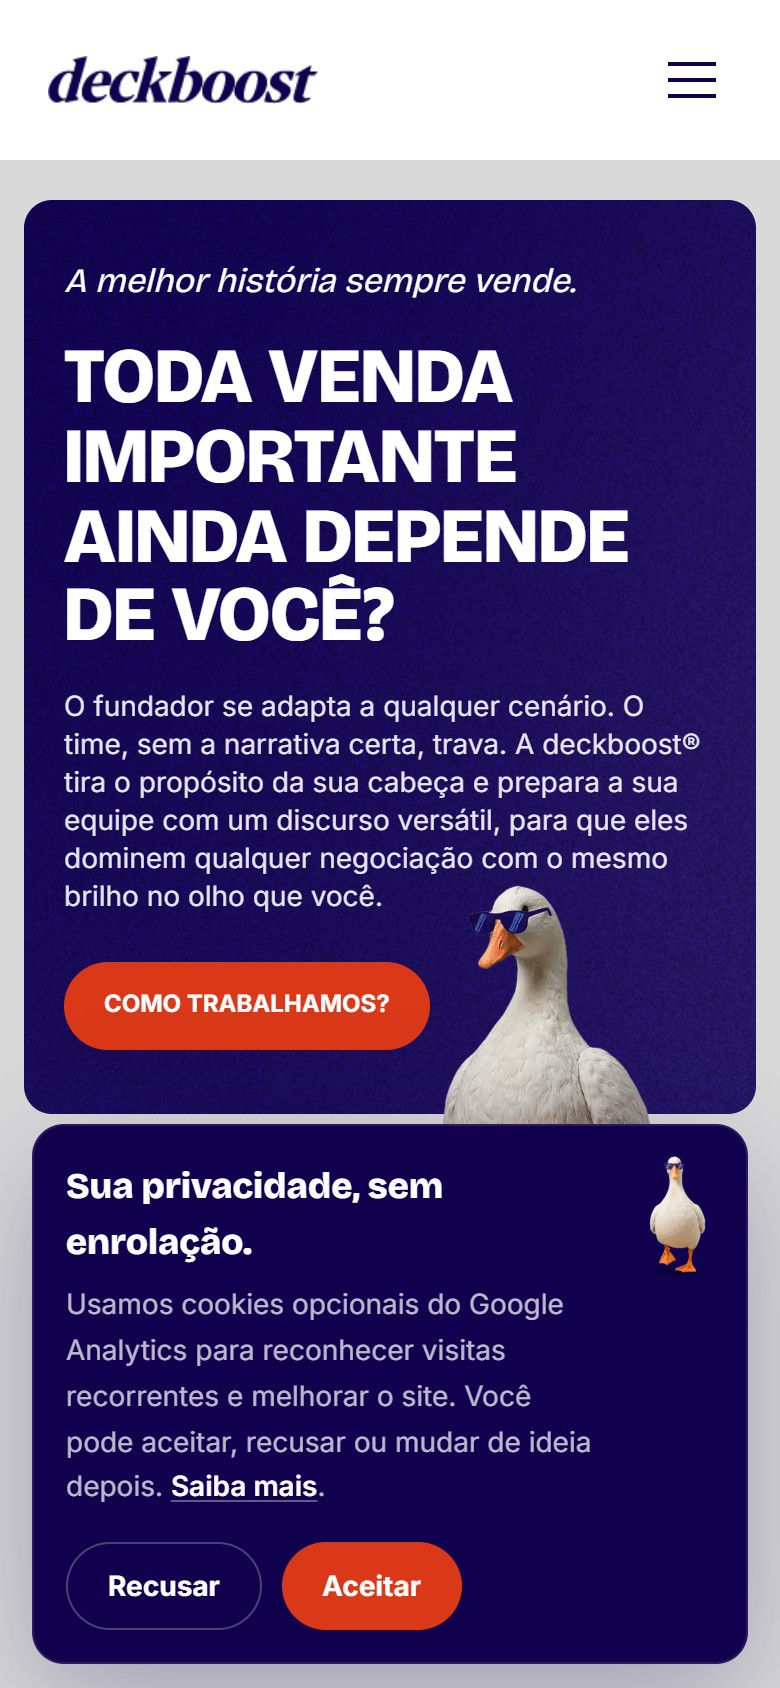
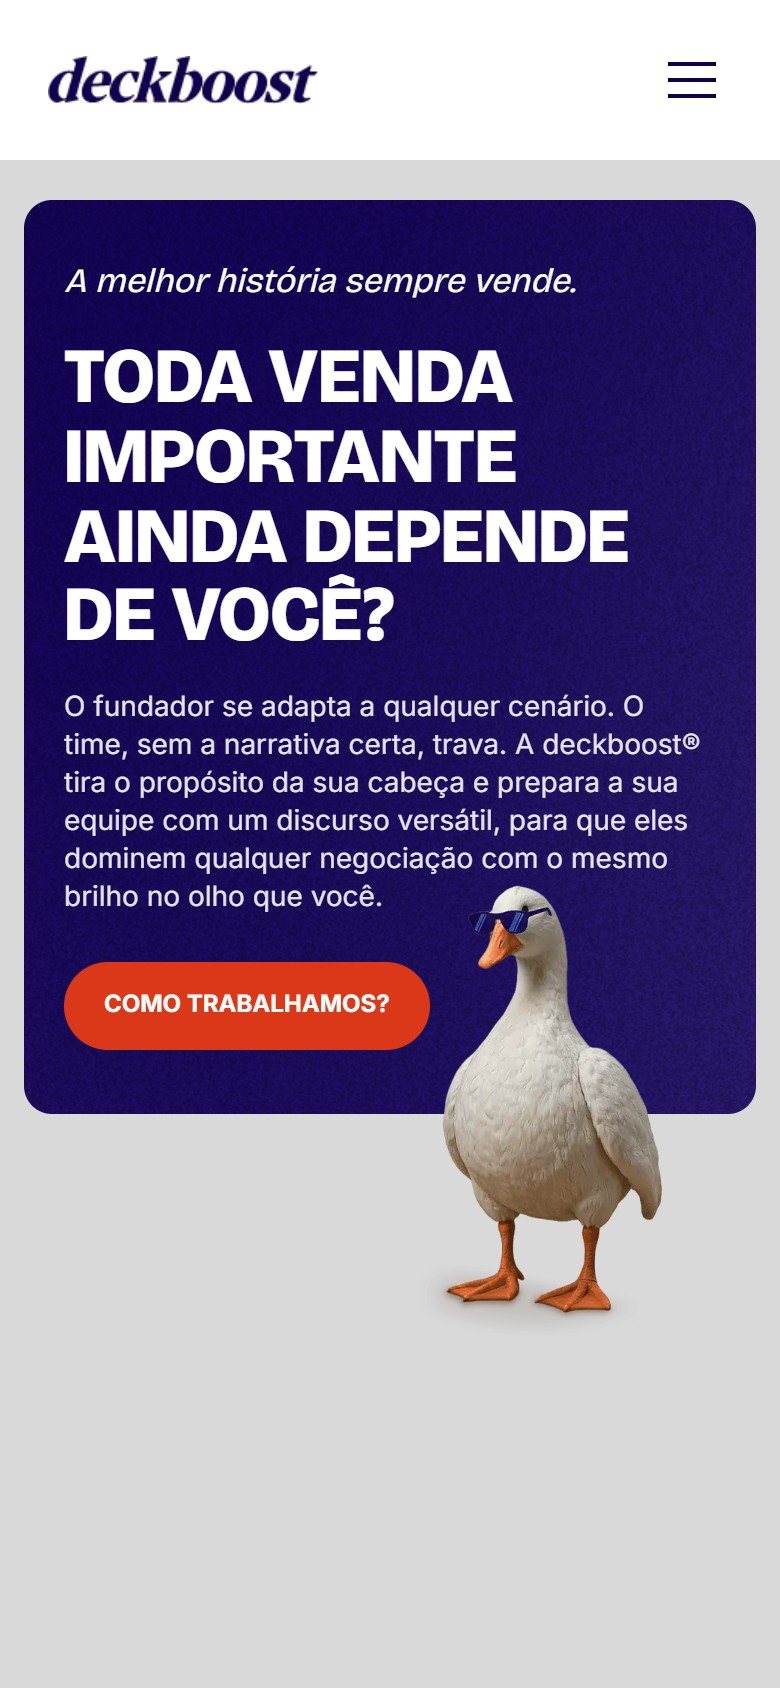
Sites de clientes no ar entram no portfólio
Mayara Gaspareto, Deckboost e Tatiane Silva publicados como trabalho para
cliente, com link para o site de cada um. Em /sites eles aparecem antes dos
estudos autorais; a home destaca primeiro o que foi feito para cliente.

diff --git a/CLAUDE.md b/CLAUDE.md
@@ -7,7 +7,7 @@
 **Categoria:** Pessoal — Sites & Clientes
 **O que é:** Site profissional real de Matheus Ávila (Indaiatuba, SP), sob a marca **AvilaCore**. Três frentes: audiovisual, drone e sites. Suporte técnico saiu do site.
 **Produção:** https://www.avilacore.com.br (domínio principal na Vercel é o `www`). Repositório público: `DevMathAvila/avilacore`.
-**Estado:** remodelagem completa no branch `remodelagem` (out/2026). Nada vai para `main` sem aprovação do Matheus.
+**Estado:** remodelagem publicada em 01/10/2026 (`main` = `remodelagem`). O trabalho continua no branch `remodelagem`; nada vai para `main` sem aprovação do Matheus.
 
 > Índice raiz: ../CLAUDE.md
 
@@ -43,7 +43,9 @@ Astro 7 (páginas estáticas + rota `/api/contato` no servidor), CSS próprio co
 - Não inventar cliente, projeto, depoimento, número, prazo, preço, certificação ou endereço.
 - Estudos autorais (Soleira, Beiral, Lívia Carvalhal, Varanda) sempre identificados como estudo; as fotos deles são de banco de imagem.
 - Tomadas aéreas autorais publicadas (out/2026): Lago com chafariz e Chácaras no fim da tarde, gravadas com DJI Neo, sem cliente e sem local informado. A tomada vertical da obra (pessoa na janela) NÃO foi publicada: aguarda autorização; arquivos em `_conteudo/04-aereo/`.
-- Clientes reais (Mayara Gaspareto, Deckboost, Tatiane Silva) e os três depoimentos estão prontos, com `publicado: false` e `autorizado: false`, até a autorização de cada um.
+- Sites de clientes publicados em 01/10/2026 a pedido do Matheus: Mayara Gaspareto, Deckboost e Tatiane Silva (`tipo: real`, com link para o site no ar). Em `/sites` eles vêm antes dos estudos, em "Sites no ar".
+- Vídeos de cliente publicados: Da obra ao projeto e O projeto virando casa (Reels da Mayara Gaspareto).
+- Os três depoimentos continuam com `autorizado: false`: só entram quando o Matheus confirmar a autorização de cada pessoa.
 - Drone: não afirmar cadastro, seguro ou licença sem dado em `src/config/site.ts`. Regra atual: RBAC nº 100 (Resolução ANAC nº 805, de 15/06/2026).
 
 ## Pastas que não fazem parte do site

diff --git a/src/content/trabalhos/tatiane-silva.md b/src/content/trabalhos/tatiane-silva.md
@@ -19,9 +19,9 @@ creditos:
 link:
   rotulo: Visitar o site
   url: https://www.tatianesilvadv.com.br
-ordem: 12
-# AGUARDANDO AUTORIZAÇÃO da cliente. Advocacia tem regras de publicidade da OAB:
-# confirme com ela o que pode ser exposto antes de trocar para true.
-publicado: false
+ordem: 3
+publicado: true
 atualizado: 2026-10-01
 ---
+
+Site da advogada Tatiane Silva, de Salto, no ar em tatianesilvadv.com.br. Institucional, apresenta a atuação dela em Direito de Família, o jeito de trabalhar e o contato pelo WhatsApp, em linguagem simples.

diff --git a/src/content/trabalhos/mayara-gaspareto.md b/src/content/trabalhos/mayara-gaspareto.md
@@ -19,9 +19,11 @@ creditos:
 link:
   rotulo: Visitar o site
   url: https://www.mayaragaspareto.com.br
-ordem: 10
-# AGUARDANDO AUTORIZAÇÃO da cliente (ver _conteudo/03-digital/mayara-gaspareto/info.md).
-# Com a autorização registrada, troque para true.
-publicado: false
+ordem: 1
+publicado: true
 atualizado: 2026-10-01
 ---
+
+Site da engenheira civil Mayara Gaspareto, de Indaiatuba, no ar em mayaragaspareto.com.br. Reúne os projetos dela, os serviços e o contato pelo WhatsApp.
+
+Feito em Next.js.

diff --git a/src/content/trabalhos/deckboost.md b/src/content/trabalhos/deckboost.md
@@ -18,9 +18,9 @@ creditos:
 link:
   rotulo: Visitar o site
   url: https://www.deckboost.com.br
-ordem: 11
-# AGUARDANDO AUTORIZAÇÃO do cliente (ver _conteudo/03-digital/deckboost/info.md).
-# Antes de publicar, refaça a captura sem o aviso de cookies.
-publicado: false
+ordem: 2
+publicado: true
 atualizado: 2026-10-01
 ---
+
+Site da Deckboost, no ar em deckboost.com.br. A página conta, em sequência, o problema que a empresa resolve para times comerciais e como ela trabalha.

diff --git a/src/content/trabalhos/beiral.md b/src/content/trabalhos/beiral.md
@@ -19,7 +19,7 @@ nota: Projeto demonstrativo. A construtora, os números, os contatos e os depoim
 link:
   rotulo: Visitar o estudo
   url: https://demonstrativo-construtora.vercel.app
-ordem: 2
+ordem: 5
 publicado: true
 atualizado: 2026-10-01
 ---

diff --git a/src/content/trabalhos/soleira.md b/src/content/trabalhos/soleira.md
@@ -19,7 +19,7 @@ nota: Projeto demonstrativo. O escritório, as pessoas e os projetos são fictí
 link:
   rotulo: Visitar o estudo
   url: https://demonstrativo-arquitetura.vercel.app
-ordem: 1
+ordem: 4
 publicado: true
 atualizado: 2026-10-01
 ---

diff --git a/src/content/trabalhos/varanda.md b/src/content/trabalhos/varanda.md
@@ -19,7 +19,7 @@ nota: Projeto demonstrativo. A clínica, os profissionais, os registros e os con
 link:
   rotulo: Visitar o estudo
   url: https://demonstrativo-odontologia.vercel.app
-ordem: 4
+ordem: 7
 publicado: true
 atualizado: 2026-10-01
 ---

diff --git a/src/content/trabalhos/livia-carvalhal.md b/src/content/trabalhos/livia-carvalhal.md
@@ -19,7 +19,7 @@ nota: Projeto demonstrativo. A advogada, o número da OAB e os contatos são fic
 link:
   rotulo: Visitar o estudo
   url: https://demonstrativo-advocacia.vercel.app
-ordem: 3
+ordem: 6
 publicado: true
 atualizado: 2026-10-01
 ---
